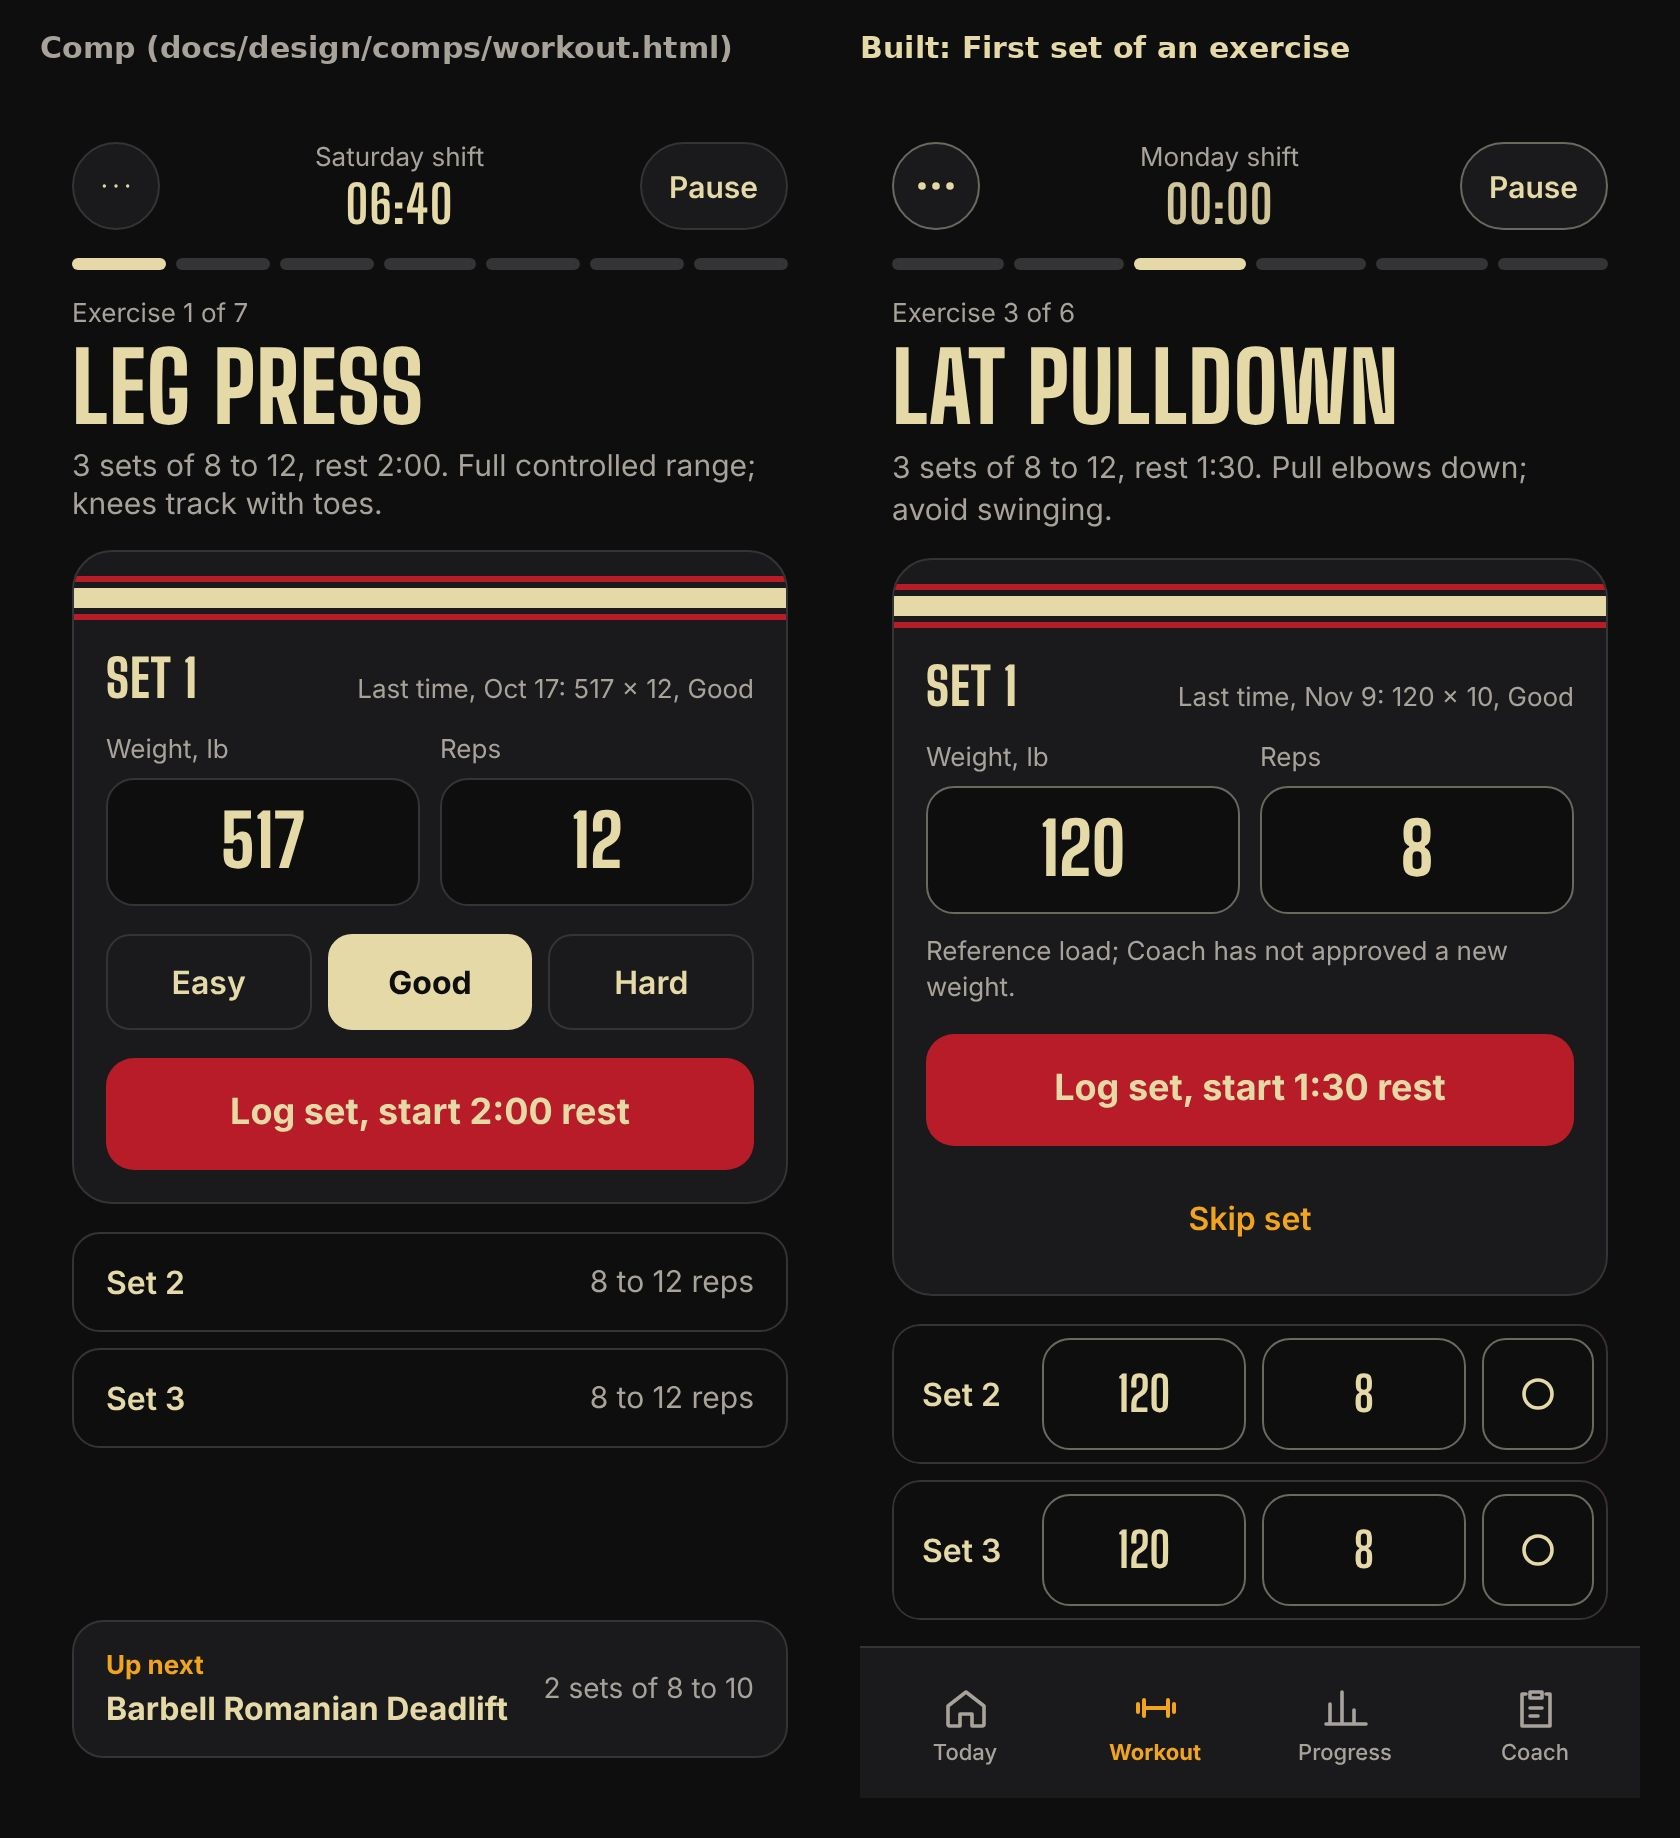
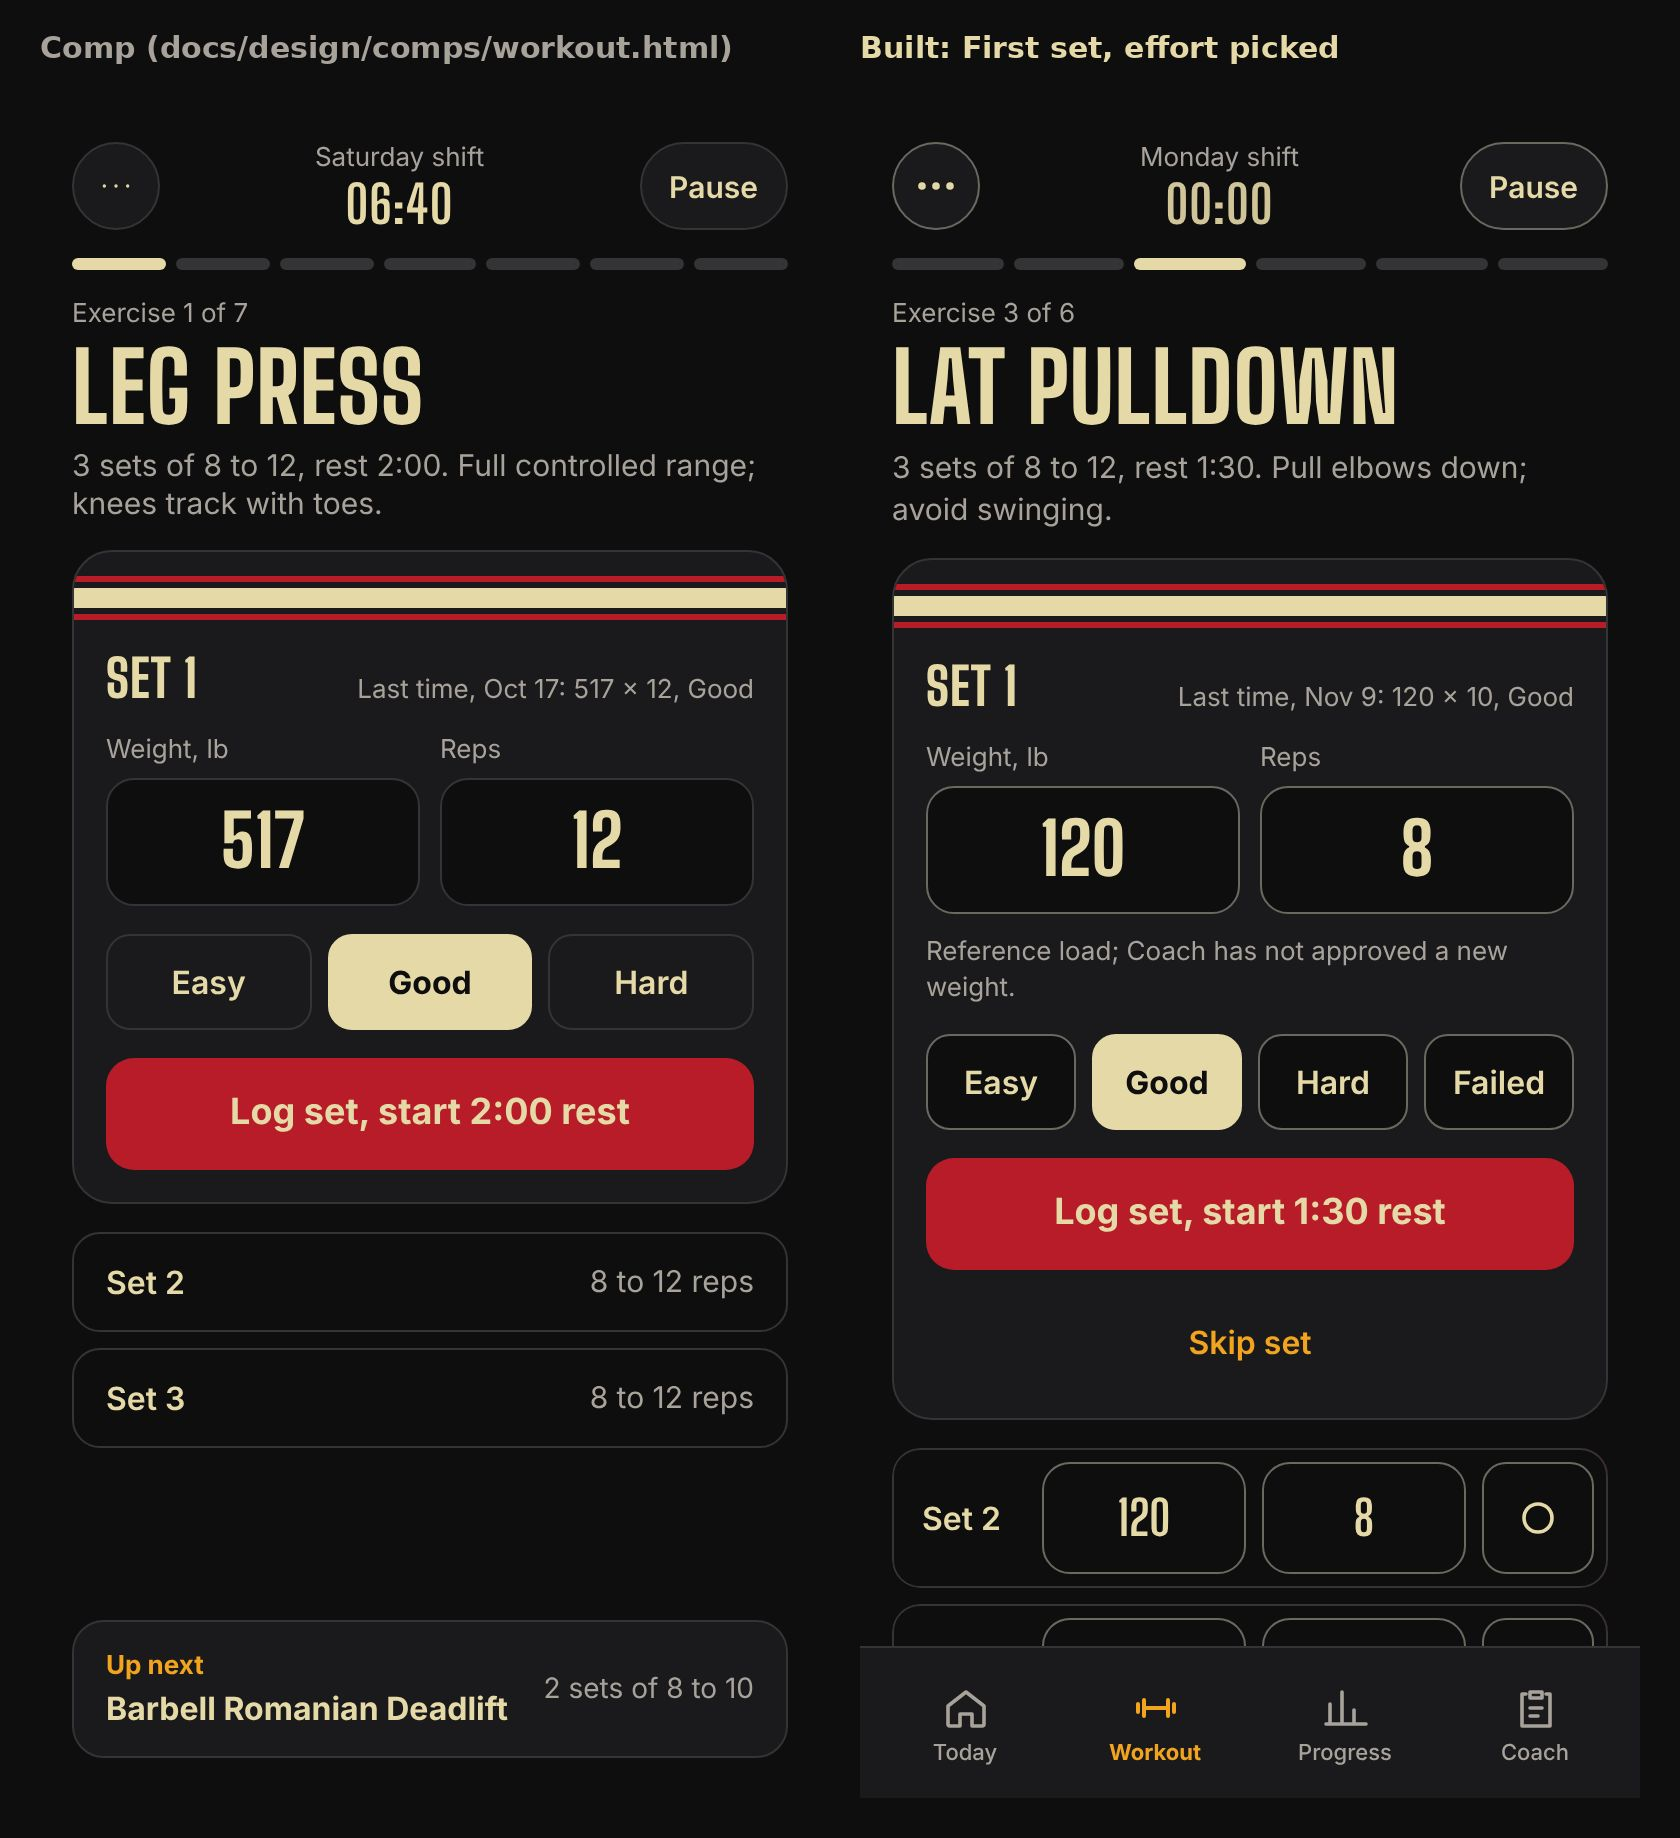
Ask for effort before logging a set, as in the workout comp
The current-set card asks Easy/Good/Hard/Failed before Log set. Log set
stays disabled until an effort is picked, so rest only starts once the
set and its effort are logged together. The choice is held in memory
until then; effort can still be changed or undone on completed rows.

Claude-Session: https://claude.ai/code/session_01461GQyJJ2oi2KxxohY5Udt

Changed region(s): [[0.5262, 0.5582, 0.9595, 0.8993], [0.65, 0.0, 0.8048, 0.031]]

diff --git a/index.html b/index.html
@@ -504,6 +504,10 @@ button:disabled,button:disabled.primary,button:disabled.secondary{opacity:1;back
 .ws-inputs input{width:100%;height:64px;min-height:64px;padding:0 6px;text-align:center;font-family:var(--display);font-weight:800;font-size:36px;border-radius:14px}
 .ws-why{margin:-4px 0 0;font-size:13px;line-height:1.4;color:var(--muted)}
 .ws-log{min-height:56px;font-size:18px}
+.ws-effort{display:grid;grid-template-columns:repeat(4,minmax(0,1fr));gap:8px}
+.ws-effort button{min-height:48px;padding:8px 4px;border-radius:12px;border:1px solid var(--line-strong);background:var(--ground);color:var(--cream);font-weight:600;font-size:16px}
+.ws-effort button.sel{background:var(--cream);border:2px solid var(--cream);color:var(--ground);font-weight:700}
+.ws-hint{margin:-6px 0 0;font-size:13px;line-height:1.4;color:var(--muted);text-align:center}
 .ws-text-button{align-self:center;min-height:44px;padding:0 12px;border:0;background:transparent;color:var(--beak);font-weight:600}
 .ws-rows{display:flex;flex-direction:column;gap:8px}
 .ws-rows .swipe-row{border-radius:14px}
@@ -781,9 +785,13 @@ const warmSection=wu.length?`<section class="ws-section" aria-label="Warm-up set
 const workRow=j=>{const x=s[j],skipped=x.status==="skipped",cls=skipped?"set-skipped":x.done?"ws-done":"ws-upcoming",action=x.added?"Delete":skipped?"Restore":"Skip";const row=`<div class="ws-row ${cls}"><span class="ws-row-label">Set ${j+1}</span><input aria-label="Set ${j+1} ${isTimed?"load":"weight"}" ${isTimed||paused||skipped?"disabled":""} value="${fillW(j)}" inputmode="decimal" onchange="edit('${d}',${ei},${j},'weight',this.value)"><input aria-label="Set ${j+1} ${isTimed?"seconds":"reps"}" ${paused||skipped?"disabled":""} value="${fillR(j)}" inputmode="numeric" onchange="edit('${d}',${ei},${j},'${isTimed?"seconds":"reps"}',this.value)"><button class="check ${x.done?"done":""}" ${skipped?"disabled":""} aria-label="${skipped?"Set "+(j+1)+" skipped":x.done?"Set "+(j+1)+" done":"Mark set "+(j+1)+" done"}" onclick="mark('${d}',${ei},${j})">${skipped?"—":x.done?uiIcon("check"):uiIcon("circle")}</button></div>`;return swipeRowShell(row,action,`rowAction('${d}',${ei},${j},'working')`)+(x.done?`<div class="feel" role="group" aria-label="How set ${j+1} felt">${["Easy","Good","Hard","Failed"].map(q=>`<button type="button" class="${x.feel===q?"sel":""}" aria-pressed="${x.feel===q}" onclick="feel('${d}',${ei},${j},'${q}')">${q}</button>`).join("")}<button class="ghost" type="button" data-day="${d}" data-exercise="${ei}" data-set="${j}" onclick="undoSetFromButton(this)">Undo</button></div>`:"")};
 const before=s.map((x,j)=>j).filter(j=>currentIndex<0||j<currentIndex),after=currentIndex<0?[]:s.map((x,j)=>j).filter(j=>j>currentIndex);
 const finishCall=ei<count-1?`render('${d}',${ei+1})`:`finish('${d}')`,finishLabel=ei<count-1?"Next exercise":"Finish workout";
-let main;if(currentIndex>=0){const j=currentIndex,x=s[j];main=`<section class="ws-current" aria-label="Current set"><div class="stripe-band" aria-hidden="true"><i></i><i></i><i></i></div><div class="ws-current-body"><div class="ws-current-head"><h2 class="ws-set-title">Set ${j+1}</h2>${lastTime?`<div class="ws-last">${workoutLastTime(lastTime,isTimed)}</div>`:""}</div><div class="ws-inputs"><label>${isTimed?"Load":"Weight, lb"}<input ${isTimed||paused?"disabled":""} value="${fillW(j)}" inputmode="decimal" onchange="edit('${d}',${ei},${j},'weight',this.value)"></label><label>${isTimed?"Seconds":"Reps"}<input ${paused?"disabled":""} value="${fillR(j)}" inputmode="numeric" onchange="edit('${d}',${ei},${j},'${isTimed?"seconds":"reps"}',this.value)"></label></div>${t.why?`<p class="ws-why">${t.why}</p>`:""}<button class="primary ws-log" type="button" ${paused?"disabled":""} onclick="mark('${d}',${ei},${j})">Log set, start ${restLabel} rest</button><button class="ws-text-button" type="button" ${paused?"disabled":""} onclick="rowAction('${d}',${ei},${j},'working')">${x.added?"Delete set":"Skip set"}</button></div></section>`}else main=`<section class="ws-current ws-complete" aria-label="Exercise complete"><div class="ws-current-body"><div class="ws-current-head"><h2 class="ws-set-title">Sets logged</h2><div class="ws-last">${done} of ${s.length} sets</div></div><button class="primary ws-log" type="button" onclick="${finishCall}">${finishLabel}</button></div></section>`;
+let main;if(currentIndex>=0){const j=currentIndex,x=s[j],effort=workoutPendingEffort[d+":"+ei+":"+j]||"";main=`<section class="ws-current" aria-label="Current set"><div class="stripe-band" aria-hidden="true"><i></i><i></i><i></i></div><div class="ws-current-body"><div class="ws-current-head"><h2 class="ws-set-title">Set ${j+1}</h2>${lastTime?`<div class="ws-last">${workoutLastTime(lastTime,isTimed)}</div>`:""}</div><div class="ws-inputs"><label>${isTimed?"Load":"Weight, lb"}<input ${isTimed||paused?"disabled":""} value="${fillW(j)}" inputmode="decimal" onchange="edit('${d}',${ei},${j},'weight',this.value)"></label><label>${isTimed?"Seconds":"Reps"}<input ${paused?"disabled":""} value="${fillR(j)}" inputmode="numeric" onchange="edit('${d}',${ei},${j},'${isTimed?"seconds":"reps"}',this.value)"></label></div>${t.why?`<p class="ws-why">${t.why}</p>`:""}<div class="ws-effort" role="group" aria-label="How did it feel">${["Easy","Good","Hard","Failed"].map(q=>`<button type="button" class="${effort===q?"sel":""}" aria-pressed="${effort===q}" ${paused?"disabled":""} onclick="chooseWorkoutEffort('${d}',${ei},${j},'${q}')">${q}</button>`).join("")}</div><button class="primary ws-log" type="button" ${paused||!effort?"disabled":""} ${effort?"":`aria-describedby="ws-effort-hint"`} onclick="logWorkoutSet('${d}',${ei},${j})">Log set, start ${restLabel} rest</button>${effort?"":`<p id="ws-effort-hint" class="ws-hint">Pick how it felt to log this set.</p>`}<button class="ws-text-button" type="button" ${paused?"disabled":""} onclick="rowAction('${d}',${ei},${j},'working')">${x.added?"Delete set":"Skip set"}</button></div></section>`}else main=`<section class="ws-current ws-complete" aria-label="Exercise complete"><div class="ws-current-body"><div class="ws-current-head"><h2 class="ws-set-title">Sets logged</h2><div class="ws-last">${done} of ${s.length} sets</div></div><button class="primary ws-log" type="button" onclick="${finishCall}">${finishLabel}</button></div></section>`;
 const upNext=next?`<div class="ws-upnext"><div><div class="ws-upnext-label">Up next</div><div class="ws-upnext-name">${next.name}</div></div><div class="ws-upnext-plan">${next.sets} sets of ${workoutRepRange(next)}</div></div>`:`<div class="ws-upnext"><div><div class="ws-upnext-label">Up next</div><div class="ws-upnext-name">Review and save</div></div><div class="ws-upnext-plan">Last exercise</div></div>`;
 document.getElementById("app").innerHTML=`${header}<div class="ws-body">${ei===0?generalWarmupMarkup(session,d):""}${setup}${warmSection}${before.length?`<div class="ws-rows" aria-label="Completed sets">${before.map(workRow).join("")}</div>`:""}${main}${after.length?`<div class="ws-rows" aria-label="Upcoming sets">${after.map(workRow).join("")}</div>`:""}<div class="set-tools"><button class="add-set-action" type="button" onclick="addSet('${d}',${ei},'working')">${uiIcon("plus",20)} Add set</button></div>${restStatusMarkup(session)}${upNext}<div class="ws-steps"><button class="secondary" type="button" ${ei===0?"disabled":`onclick="render('${d}',${ei-1})"`}>Previous</button><button class="secondary" type="button" onclick="rest(${e.rest})">Rest</button><button class="secondary" type="button" onclick="${finishCall}">${ei<count-1?"Next":"Finish"}</button></div></div>`;bindSwipeRows()}
+// Effort is asked before a set is logged (and before rest starts). The choice lives only in memory until the set is logged.
+const workoutPendingEffort={};
+function chooseWorkoutEffort(d,i,j,v){if(getSession(d).pausedAt)return;const effort=normalizeFeel(v);if(!effort)return;workoutPendingEffort[d+":"+i+":"+j]=effort;render(d,i)}
+function logWorkoutSet(d,i,j){const session=getSession(d),key=d+":"+i+":"+j,effort=workoutPendingEffort[key];if(!effort||session.pausedAt||session.status==="saved")return;const x=sets(d,i,sessionProgram(d).exercises[i].sets)[j];if(!x||x.done||x.status==="skipped")return;x.feel=effort;delete workoutPendingEffort[key];mark(d,i,j)}
 function workoutRestLabel(sec){const n=Math.max(0,Math.round(Number(sec)||0));return Math.floor(n/60)+":"+String(n%60).padStart(2,"0")}
 function workoutRepRange(e){return (e.min===e.max?e.min:e.min+" to "+e.max)+(e.unit==="sec"?" sec":"")}
 function workoutPlanLine(e){return e.sets+" sets of "+workoutRepRange(e)+", rest "+workoutRestLabel(e.rest)+"."}

diff --git a/CHANGELOG.md b/CHANGELOG.md
@@ -23,7 +23,7 @@ All notable user-visible changes are recorded here. Versions follow semantic ver
 
 ### Workouts
 
-- Rebuilt the active workout screen to the Shift comp: top bar with menu, timer and Pause, exercise progress, a large exercise header, the current set in a striped main card with a "Last time" line and a red "Log set, start rest" button, completed and upcoming set rows, and an Up next card. Per-set logging, warm-ups, feel, undo, swipe actions and all workout controls work as before.
+- Rebuilt the active workout screen to the Shift comp: top bar with menu, timer and Pause, exercise progress, a large exercise header, the current set in a striped main card with a "Last time" line and Easy/Good/Hard/Failed asked before a red "Log set, start rest" button (which waits for an effort), completed and upcoming set rows, and an Up next card. Per-set logging, warm-ups, feel, undo, swipe actions and all workout controls work as before.
 - Fixed workout durations that counted pauses and abandoned time: saved duration now subtracts pauses, resuming after more than 2 hours idle excludes the gap, and a duration over 4 hours falls back to set times and is marked estimated. Already-saved workouts keep their stored duration.
 - Preserved direct taps on set controls while retaining horizontal set-row swipe actions.
 - Added a compact workout archive with per-workout sync status, retry, and JSON backup export. Reviewed workouts remain complete on this device when cloud sync is unavailable.
